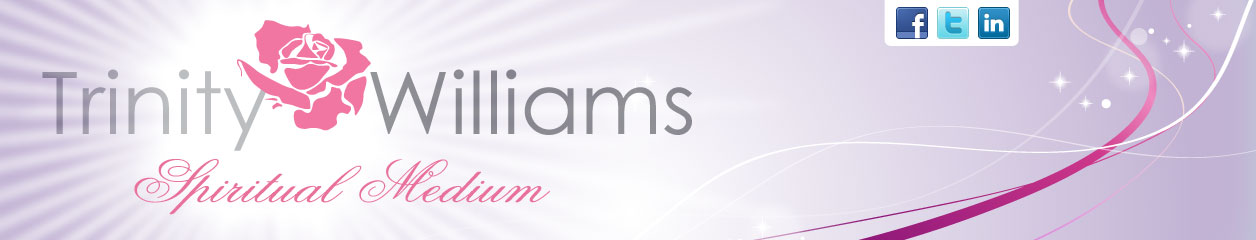
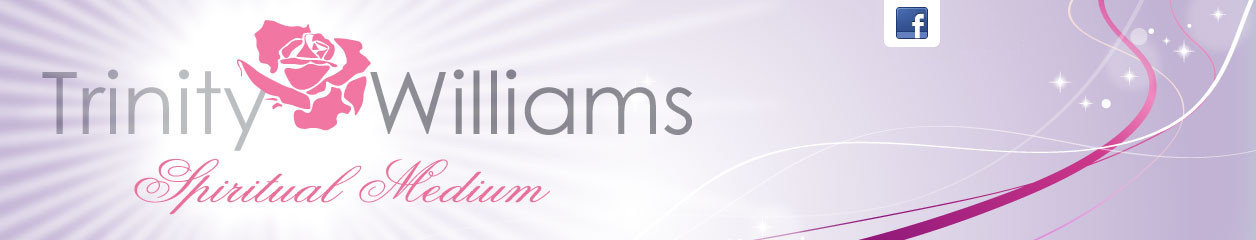
Remove Twitter and Linkedin

Changed region(s): [[0.7142, 0.0, 0.8384, 0.2042]]

diff --git a/mysite/mysite/templates/mysite/base.html b/mysite/mysite/templates/mysite/base.html
@@ -60,8 +60,10 @@
         <img src="{% static "mysite/images/trinity_header.jpg" %}" alt="Trinity Williams" usemap="#social_media"  hidefocus="true" />
           <map name="social_media">
             <area shape="rect" coords="894,5,930,41" alt="Facebook" href="https://www.facebook.com/pages/Trinity-Rose-Williams-Spiritual-Medium-Counsellor-Dipcouns/380095498796510?fref=ts">
+              {% comment %}
             <area shape="rect" coords="935,5,971,41" alt="Twitter" href="http:\\twitter.com">
             <area shape="rect" coords="976,5,1012,41" alt="Linkedin" href="http:\\linkedin.com">
+              {% endcomment %}
           </map>
     </div>
     
